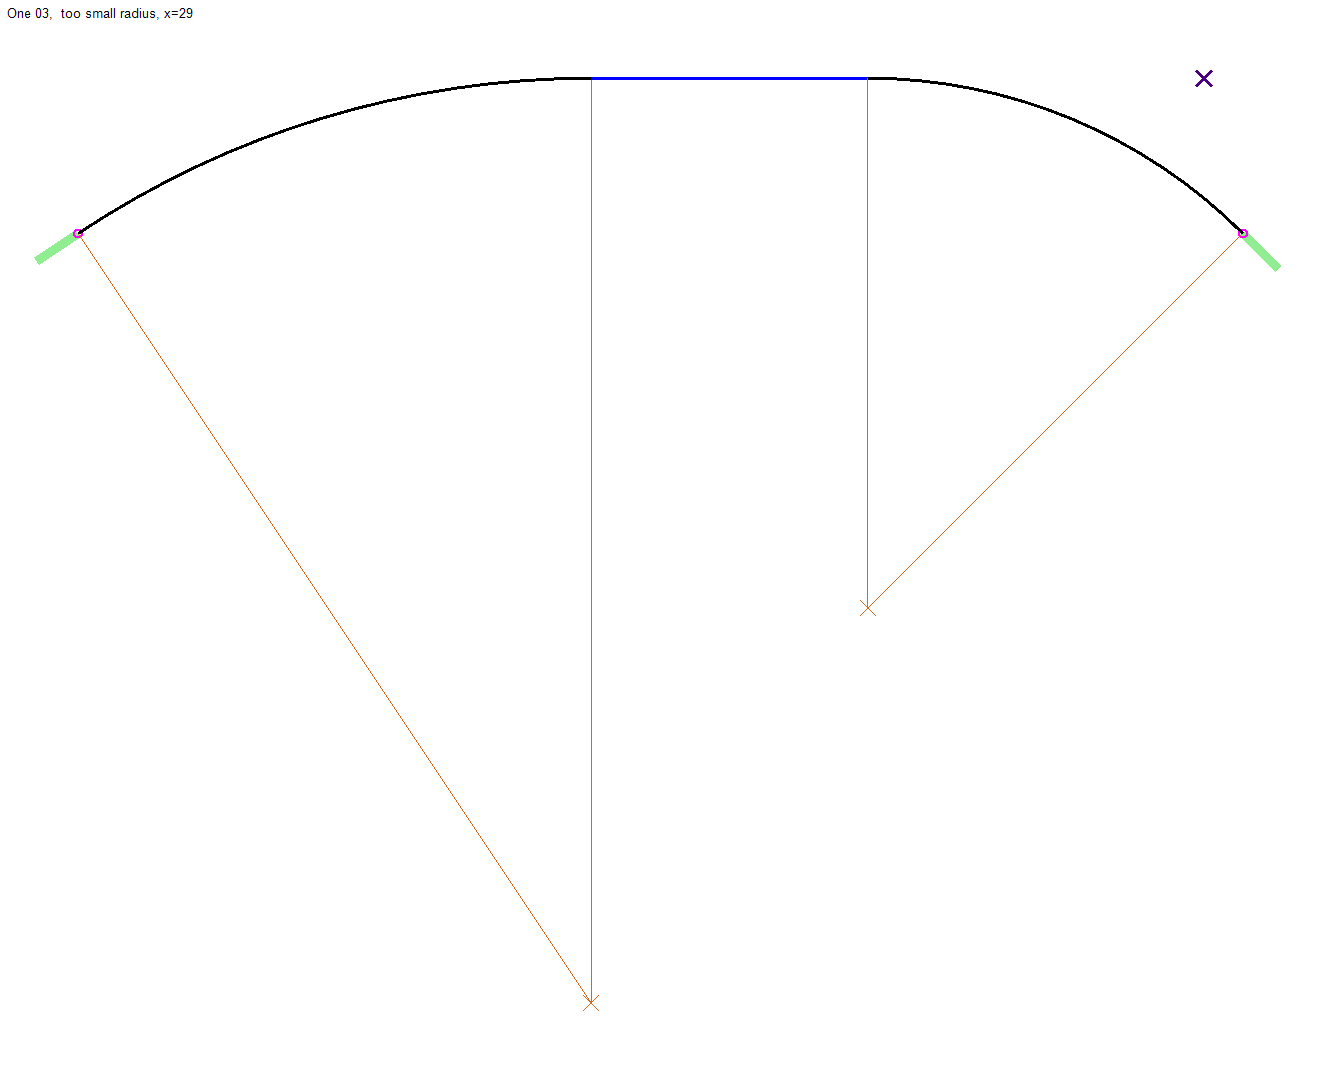
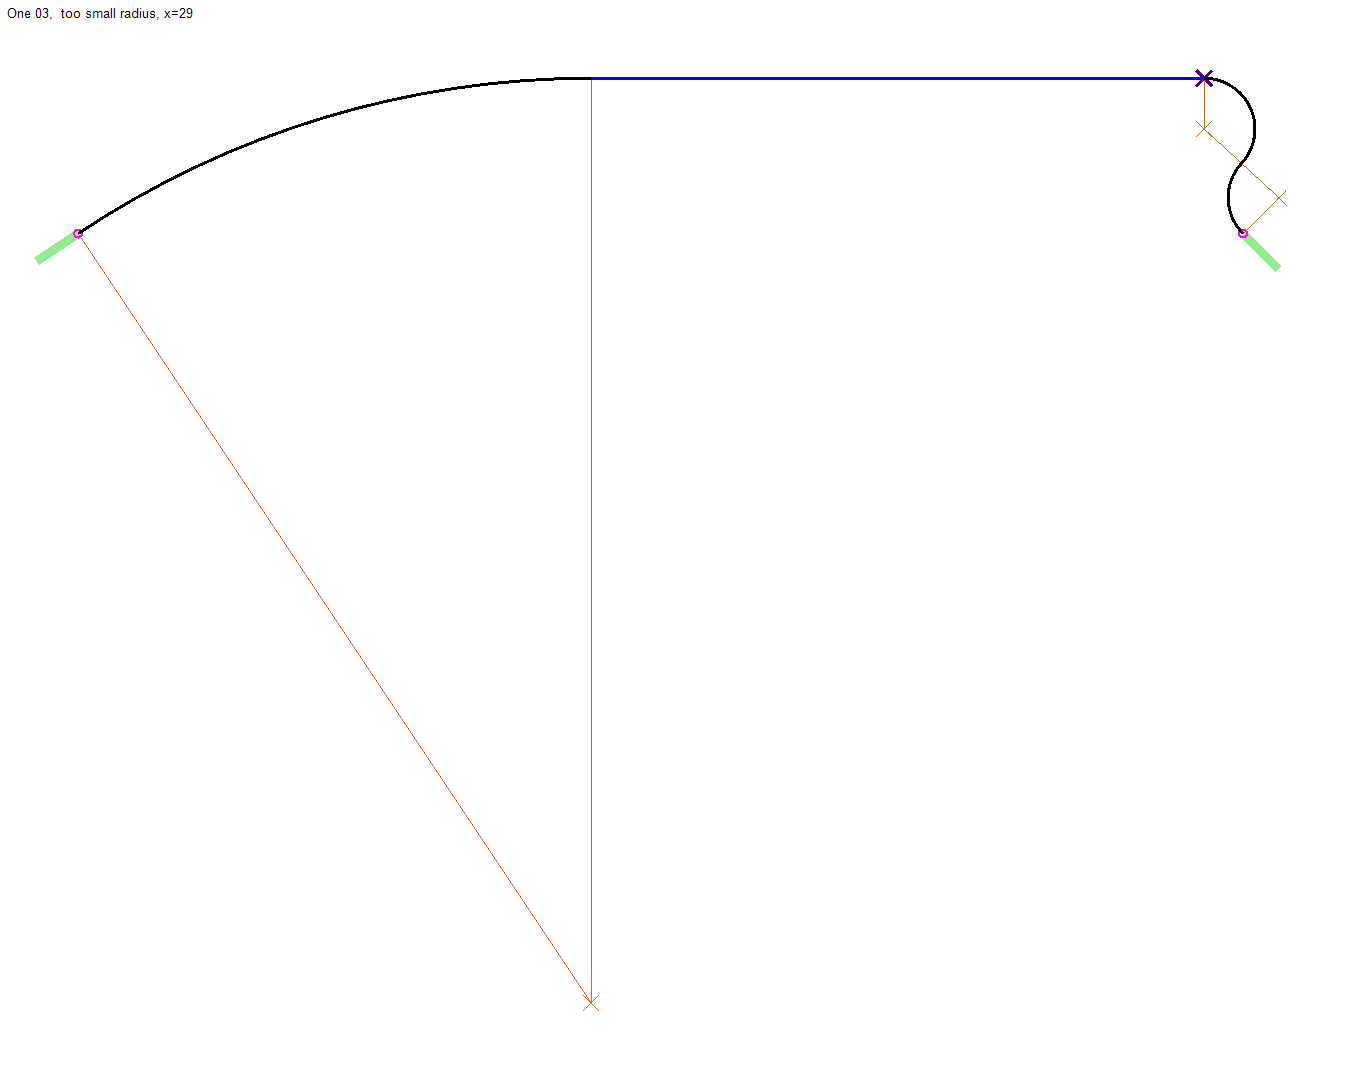
Changes solution type for some unusual situation with one reference point

diff --git a/app/iSukces.DrawingPanel.Paths.Test/OneReferencePointPathCalculatorTests.cs b/app/iSukces.DrawingPanel.Paths.Test/OneReferencePointPathCalculatorTests.cs
@@ -90,14 +90,10 @@ namespace iSukces.DrawingPanel.Paths.Test
             #endregion
         }
 
-        [Theory]
-        [InlineData(2)]
-        [InlineData(6)]
-        [InlineData(30 - 4)]
-        [InlineData(30 - 4 + 3)]
-        public void T03_Should_create_too_small_radius(double x)
+        [Fact]
+        public void T03_Should_create_too_small_radius_2()
         {
-            // lewy punkt przecięcia leży dokładnie na przedłużeniu lewej prostej
+            const double x  = 2;
             const double dx = 6;
             const double dy = 4;
             var a = new OneReferencePointPathCalculator
@@ -113,16 +109,23 @@ namespace iSukces.DrawingPanel.Paths.Test
 
             AssertEx.Equal(0, 0, r.Start);
             AssertEx.Equal(30, 0, r.End);
-            Assert.Equal(3, r.Arcs.Count);
+            Assert.Equal(4, r.Arcs.Count);
             var tmp1 = (ArcDefinition)r.Arcs[0];
-            Assert.Equal(ArcDirection.Clockwise, tmp1.Direction);
-            Assert.Equal(33.6900675259798, tmp1.Angle, 6);
-            AssertEx.Equal(13.211102550928, -19.816653826392, tmp1.Center);
+            Assert.Equal(ArcDirection.CounterClockwise, tmp1.Direction);
+            Assert.Equal(78.6180267593746, tmp1.Angle, 6);
+            AssertEx.Equal(-0.856275169326163, 1.28441275398924, tmp1.Center);
             AssertEx.Equal(0, 0, tmp1.Start);
-            AssertEx.Equal(13.211102550928, 4, tmp1.End);
-            AssertEx.Equal(6, 4, tmp1.StartVector);
-            AssertEx.Equal(13.211102550928, 4, 20.3431457505076, 4, (LinePathElement)r.Arcs[1], 6);
-            tmp1 = (ArcDefinition)r.Arcs[2];
+            AssertEx.Equal(0.571862415336919, 1.8703703697666, tmp1.End);
+            AssertEx.Equal(0.832050294337844, 0.554700196225229, tmp1.StartVector);
+            tmp1 = (ArcDefinition)r.Arcs[1];
+            Assert.Equal(ArcDirection.Clockwise, tmp1.Direction);
+            Assert.Equal(112.308094285354, tmp1.Angle, 6);
+            AssertEx.Equal(2, 2.45632798554396, tmp1.Center);
+            AssertEx.Equal(0.571862415336919, 1.8703703697666, tmp1.Start);
+            AssertEx.Equal(2, 4, tmp1.End);
+            AssertEx.Equal(-0.585957615777356, 1.42813758466308, tmp1.StartVector);
+            AssertEx.Equal(2, 4, 20.3431457505076, 4, (LinePathElement)r.Arcs[2], 6);
+            tmp1 = (ArcDefinition)r.Arcs[3];
             Assert.Equal(ArcDirection.Clockwise, tmp1.Direction);
             Assert.Equal(45, tmp1.Angle, 6);
             AssertEx.Equal(20.3431457505076, -9.65685424949238, tmp1.Center);
@@ -132,6 +135,145 @@ namespace iSukces.DrawingPanel.Paths.Test
 
             #endregion
         }
+
+        [Fact]
+        public void T03_Should_create_too_small_radius_26()
+        {
+            const double x  = 26;
+            const double dx = 6;
+            const double dy = 4;
+            var a = new OneReferencePointPathCalculator
+            {
+                Start     = new PathRay(0, 0, dx, dy),
+                End       = new PathRay(30, 0, -1, 1),
+                Reference = new PathRay(x, 4, 0, 0)
+            };
+            var r = a.Compute(null);
+            ResultDrawer.Draw(a, r, MakeTitle(3, "too small radius, x=" + x));
+
+            #region Asserts
+
+            AssertEx.Equal(0, 0, r.Start);
+            AssertEx.Equal(30, 0, r.End);
+            Assert.Equal(4, r.Arcs.Count);
+            var tmp1 = (ArcDefinition)r.Arcs[0];
+            Assert.Equal(ArcDirection.Clockwise, tmp1.Direction);
+            Assert.Equal(33.6900675259798, tmp1.Angle, 6);
+            AssertEx.Equal(13.211102550928, -19.816653826392, tmp1.Center);
+            AssertEx.Equal(0, 0, tmp1.Start);
+            AssertEx.Equal(13.211102550928, 4, tmp1.End);
+            AssertEx.Equal(6, 4, tmp1.StartVector);
+            AssertEx.Equal(13.211102550928, 4, 26, 4, (LinePathElement)r.Arcs[1], 6);
+            tmp1 = (ArcDefinition)r.Arcs[2];
+            Assert.Equal(ArcDirection.Clockwise, tmp1.Direction);
+            Assert.Equal(76.399714809919, tmp1.Angle, 6);
+            AssertEx.Equal(26, 0.765881025674692, tmp1.Center);
+            AssertEx.Equal(26, 4, tmp1.Start);
+            AssertEx.Equal(29.1434337289548, 1.5263742417921, tmp1.End);
+            AssertEx.Equal(1, 0, tmp1.StartVector);
+            tmp1 = (ArcDefinition)r.Arcs[3];
+            Assert.Equal(ArcDirection.CounterClockwise, tmp1.Direction);
+            Assert.Equal(31.399714809919, tmp1.Angle, 6);
+            AssertEx.Equal(32.2868674579095, 2.28686745790951, tmp1.Center);
+            AssertEx.Equal(29.1434337289548, 1.5263742417921, tmp1.Start);
+            AssertEx.Equal(30, 0, tmp1.End);
+            AssertEx.Equal(0.760493216117408, -3.14343372895475, tmp1.StartVector);
+
+            #endregion
+        }
+
+        [Fact]
+        public void T03_Should_create_too_small_radius_29()
+        {
+            const double x  = 29;
+            const double dx = 6;
+            const double dy = 4;
+            var a = new OneReferencePointPathCalculator
+            {
+                Start     = new PathRay(0, 0, dx, dy),
+                End       = new PathRay(30, 0, -1, 1),
+                Reference = new PathRay(x, 4, 0, 0)
+            };
+            var r = a.Compute(null);
+            ResultDrawer.Draw(a, r, MakeTitle(3, "too small radius, x=" + x));
+
+            #region Asserts
+
+            AssertEx.Equal(0, 0, r.Start);
+            AssertEx.Equal(30, 0, r.End);
+            Assert.Equal(4, r.Arcs.Count);
+            var tmp1 = (ArcDefinition)r.Arcs[0];
+            Assert.Equal(ArcDirection.Clockwise, tmp1.Direction);
+            Assert.Equal(33.6900675259798, tmp1.Angle, 6);
+            AssertEx.Equal(13.211102550928, -19.816653826392, tmp1.Center);
+            AssertEx.Equal(0, 0, tmp1.Start);
+            AssertEx.Equal(13.211102550928, 4, tmp1.End);
+            AssertEx.Equal(6, 4, tmp1.StartVector);
+            AssertEx.Equal(13.211102550928, 4, 29, 4, (LinePathElement)r.Arcs[1], 6);
+            tmp1 = (ArcDefinition)r.Arcs[2];
+            Assert.Equal(ArcDirection.Clockwise, tmp1.Direction);
+            Assert.Equal(132.595764207088, tmp1.Angle, 6);
+            AssertEx.Equal(29, 2.69313071723601, tmp1.Center);
+            AssertEx.Equal(29, 4, tmp1.Start);
+            AssertEx.Equal(29.9620480659834, 1.80861342460141, tmp1.End);
+            AssertEx.Equal(1, 0, tmp1.StartVector);
+            tmp1 = (ArcDefinition)r.Arcs[3];
+            Assert.Equal(ArcDirection.CounterClockwise, tmp1.Direction);
+            Assert.Equal(87.5957642070877, tmp1.Angle, 6);
+            AssertEx.Equal(30.9240961319668, 0.924096131966815, tmp1.Center);
+            AssertEx.Equal(29.9620480659834, 1.80861342460141, tmp1.Start);
+            AssertEx.Equal(30, 0, tmp1.End);
+            AssertEx.Equal(-0.884517292634599, -0.96204806598341, tmp1.StartVector);
+
+            #endregion
+        }
+
+        [Fact]
+        public void T03_Should_create_too_small_radius_6()
+        {
+            const double x  = 6;
+            const double dx = 6;
+            const double dy = 4;
+            var a = new OneReferencePointPathCalculator
+            {
+                Start     = new PathRay(0, 0, dx, dy),
+                End       = new PathRay(30, 0, -1, 1),
+                Reference = new PathRay(x, 4, 0, 0)
+            };
+            var r = a.Compute(null);
+            ResultDrawer.Draw(a, r, MakeTitle(3, "too small radius, x=" + x));
+
+            #region Asserts
+
+            AssertEx.Equal(0, 0, r.Start);
+            AssertEx.Equal(30, 0, r.End);
+            Assert.Equal(4, r.Arcs.Count);
+            var tmp1 = (ArcDefinition)r.Arcs[0];
+            Assert.Equal(ArcDirection.CounterClockwise, tmp1.Direction);
+            Assert.Equal(23.6482664310892, tmp1.Angle, 6);
+            AssertEx.Equal(-2.94780495706329, 4.42170743559494, tmp1.Center);
+            AssertEx.Equal(0, 0, tmp1.Start);
+            AssertEx.Equal(1.52609752146835, 1.55373823710781, tmp1.End);
+            AssertEx.Equal(0.832050294337844, 0.554700196225229, tmp1.StartVector);
+            tmp1 = (ArcDefinition)r.Arcs[1];
+            Assert.Equal(ArcDirection.Clockwise, tmp1.Direction);
+            Assert.Equal(57.338333957069, tmp1.Angle, 6);
+            AssertEx.Equal(6, -1.31423096137931, tmp1.Center);
+            AssertEx.Equal(1.52609752146835, 1.55373823710781, tmp1.Start);
+            AssertEx.Equal(6, 4, tmp1.End);
+            AssertEx.Equal(2.86796919848713, 4.47390247853165, tmp1.StartVector);
+            AssertEx.Equal(6, 4, 20.3431457505076, 4, (LinePathElement)r.Arcs[2], 6);
+            tmp1 = (ArcDefinition)r.Arcs[3];
+            Assert.Equal(ArcDirection.Clockwise, tmp1.Direction);
+            Assert.Equal(45, tmp1.Angle, 6);
+            AssertEx.Equal(20.3431457505076, -9.65685424949238, tmp1.Center);
+            AssertEx.Equal(20.3431457505076, 4, tmp1.Start);
+            AssertEx.Equal(30, 0, tmp1.End);
+            AssertEx.Equal(30, 0, tmp1.StartVector);
+
+            #endregion
+        }
+
 
         [Fact]
         public void T04_Should_create_normal_configuration()

diff --git a/app/iSukces.DrawingPanel.Paths/OneReferencePointPathCalculator.cs b/app/iSukces.DrawingPanel.Paths/OneReferencePointPathCalculator.cs
@@ -61,7 +61,7 @@ namespace iSukces.DrawingPanel.Paths
                     {
                         var cross1 = startCrossNullable.Value;
                         var cross2 = endCrossNullable.Value;
-                        var q = FromTwoCrosses(cross1, cross2, ll, validator);
+                        var q      = FromTwoCrosses(cross1, cross2, ll, validator);
                         if (q == FromTwoCrossesResult.TwoS)
                         {
                             ll.Add(Start, Reference);
@@ -84,13 +84,8 @@ namespace iSukces.DrawingPanel.Paths
             }
         }
 
-        public enum FromTwoCrossesResult
-        {
-            None,
-            TwoS
-        }
-
-        private FromTwoCrossesResult FromTwoCrosses(Point startCross, Point endCross, Aggregator aggregator, IPathValidator validator)
+        private FromTwoCrossesResult FromTwoCrosses(Point startCross, Point endCross, Aggregator aggregator,
+            IPathValidator validator)
         {
             var startIsInvalid = DotNotPositive(startCross, Start);
             var endIsInvalid   = DotNotPositive(endCross, End);
@@ -99,6 +94,7 @@ namespace iSukces.DrawingPanel.Paths
                 aggregator.AddLine(Start.Point, End.Point);
                 return FromTwoCrossesResult.None;
             }
+
             var vMiddle = endCross - startCross;
             {
                 var dot = vMiddle * (End.Point - Start.Point);
@@ -106,27 +102,30 @@ namespace iSukces.DrawingPanel.Paths
                     return FromTwoCrossesResult.TwoS;
             }
 
-            var vStart  = startCross - Start.Point;
-            var vEnd    = End.Point - endCross;
+            var vStart = startCross - Start.Point;
+            var vEnd   = End.Point - endCross;
 
             double startLength;
             {
                 var tmp = startCross - Reference.Point;
                 var dot = tmp * vMiddle; // ujemne OK
-                
+
                 startLength = vStart.Length;
-                if (dot<0)
-                startLength = Math.Min(startLength, tmp.Length);
+                if (dot < 0)
+                    startLength = Math.Min(startLength, tmp.Length);
+                else
+                    return FromTwoCrossesResult.TwoS;
             }
             var    middleLength = vMiddle.Length;
-            double    endLength;
+            double endLength;
             {
                 var tmp = endCross - Reference.Point;
                 var dot = tmp * vMiddle; // dodatnie Ok
                 endLength = vEnd.Length;
                 if (dot > 0)
                     endLength = Math.Min(endLength, tmp.Length);
-                
+                else
+                    return FromTwoCrossesResult.TwoS;
             }
 
             var xReference = Reference.GetNormalizedVector();
@@ -172,6 +171,7 @@ namespace iSukces.DrawingPanel.Paths
                 aggregator.LineTo(End.Point);
                 return FromTwoCrossesResult.None;
             }
+
             return FromTwoCrossesResult.TwoS;
         }
 
@@ -231,6 +231,12 @@ namespace iSukces.DrawingPanel.Paths
         }
 
         public PathRay Reference { get; set; }
+
+        public enum FromTwoCrossesResult
+        {
+            None,
+            TwoS
+        }
 
 
         private class Aggregator
